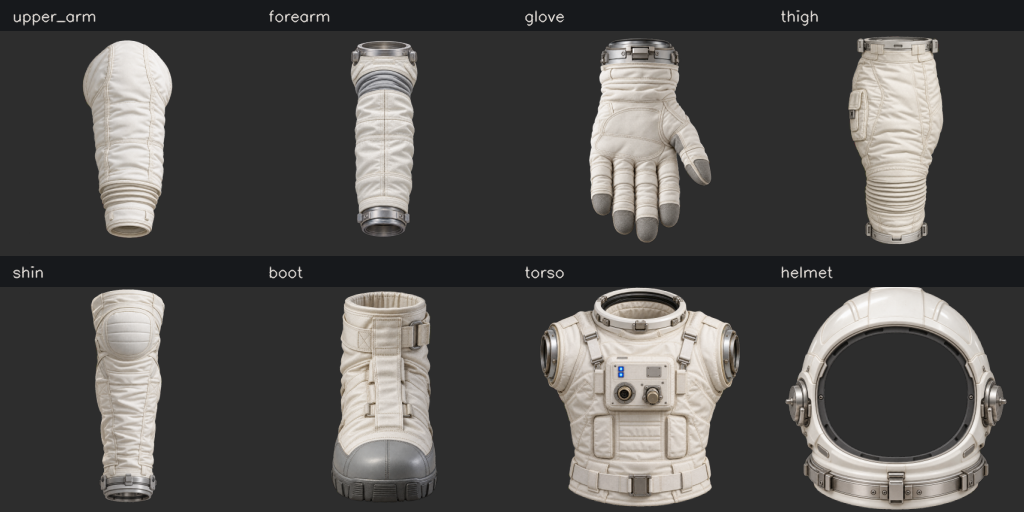
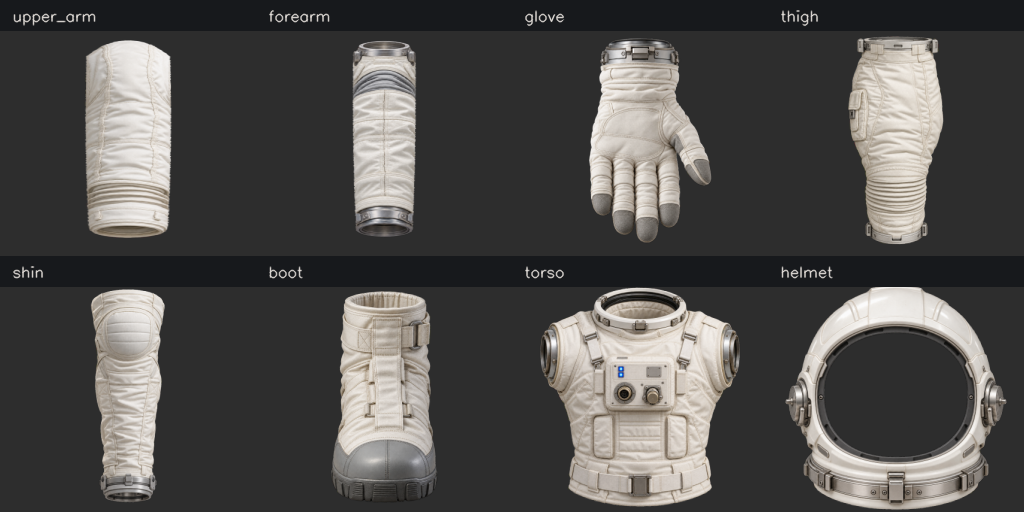
Join wider EVA sleeves consistently through arm movement

diff --git a/fruit-ninja-cv/suit_rig.py b/fruit-ninja-cv/suit_rig.py
@@ -31,6 +31,39 @@ class Sprite:
         return cls(image, rgba, cv2.boundingRect(image[:, :, 3]))
 
 
+def _fit_sleeve_artwork(image, anchors, proximal, distal):
+    """Match actual fabric cross-sections, rather than transparent canvas widths.
+
+    The upper-arm artwork has a very narrow cuff. A single affine scale cannot
+    join it to the much wider forearm ring. Refit rows once at asset load, keeping
+    the original texture, alpha edges and a mild taper along the sleeve.
+    """
+    h,w=image.shape[:2]
+    bounds=cv2.boundingRect((image[:,:,3]>32).astype(np.uint8))
+    yy,xx=np.mgrid[:h,:w].astype(np.float32)
+    source_x=xx.copy()
+    for y in range(h):
+        columns=np.flatnonzero(image[y,:,3]>32)
+        if len(columns)<2:
+            continue
+        t=float(np.clip((y/h-anchors[0][1])/(anchors[1][1]-anchors[0][1]),0,1))
+        target=bounds[2]*(proximal*(1-t)+distal*t+.035*np.sin(np.pi*t))
+        # Keep the authored rounded shoulder and cuff ends outside the bone
+        # anchors; expanding those tiny end rows would create square shoulders.
+        anchor_y=round(np.clip(y,anchors[0][1]*h,anchors[1][1]*h))
+        reference=np.flatnonzero(image[anchor_y,:,3]>32)
+        if len(reference)>1 and (y<anchors[0][1]*h or y>anchors[1][1]*h):
+            target*=min(1.,len(columns)/len(reference))
+        scale=min(3.5,target/(columns[-1]-columns[0]+1))
+        source_x[y]=(xx[y]-w*.5)/scale+(columns[0]+columns[-1])*.5
+    # Premultiplied resampling keeps the refitted alpha border free of dark edges.
+    premult=Sprite.prepare(image).premultiplied
+    fitted=cv2.remap(premult,source_x,yy,cv2.INTER_LINEAR,borderMode=cv2.BORDER_CONSTANT)
+    alpha=fitted[:,:,3:4]
+    color=np.divide(fitted[:,:,:3],alpha,out=np.zeros_like(fitted[:,:,:3]),where=alpha>1e-6)
+    return np.clip(np.concatenate((color,alpha*255),axis=2),0,255).astype(np.uint8)
+
+
 @lru_cache(maxsize=1)
 def load_assets():
     """One bounded decoded set (8 × at most 384²), no growing scale cache."""
@@ -43,11 +76,16 @@ def load_assets():
         factor = min(1., 384 / max(image.shape[:2]))
         if factor < 1:
             image = cv2.resize(image, None, fx=factor, fy=factor, interpolation=cv2.INTER_AREA)
+        if name in ('upper_arm','forearm'):
+            profile=(.94,.90) if name=='upper_arm' else (.94,.86)
+            image=_fit_sleeve_artwork(image,meta[name]['anchors'],*profile)
         assets[name] = Sprite.prepare(image)
         if 'width' in meta[name]:
             # Generated artwork need not obey the requested margin exactly.
             # Fit actual opaque garment width, not transparent canvas padding.
-            meta[name]['width']=assets[name].bounds[2]/image.shape[1]
+            fit_bounds=(cv2.boundingRect((image[:,:,3]>32).astype(np.uint8))
+                        if name in ('upper_arm','forearm') else assets[name].bounds)
+            meta[name]['width']=fit_bounds[2]/image.shape[1]
         if name=='helmet':
             transparent=(image[:,:,3]<20).astype(np.uint8)
             _,labels=cv2.connectedComponents(transparent)
@@ -240,9 +278,14 @@ class SuitRenderer:
     def _limb(self, asset, label, a, b, width, pose, mask=None, torso=None):
         endpoints=pose.segment(a,b)
         if endpoints is None or np.linalg.norm(endpoints[1]-endpoints[0])<3:return None
-        # Overlap cuffs at each joint; do not expose transparent asset margins.
+        # Sleeve overlap follows garment width, not projected bone length: an
+        # elbow pointing at the camera still needs a full-size padded joint.
         delta=endpoints[1]-endpoints[0]
-        fitted=np.array((endpoints[0]-delta*.10,endpoints[1]+delta*.10))
+        if asset in ('upper_arm','forearm'):
+            extension=delta/np.linalg.norm(delta)*width*.22
+        else:
+            extension=delta*.10
+        fitted=np.array((endpoints[0]-extension,endpoints[1]+extension))
         part=self._part(asset,label,fitted,width)
         part['fit_endpoints']=fitted
         part['endpoints']=endpoints
@@ -412,7 +455,7 @@ class SuitRenderer:
                                  ('r',(12,14,16,20,24,26,28,32))]:
                 sh,el,wr,fi,hip,knee,ankle,toe=indices
                 for asset,a,b,factor,layer in [('thigh',hip,knee,.53,0),('shin',knee,ankle,.48,1),
-                                              ('upper_arm',sh,el,.46,20),('forearm',el,wr,.44,40)]:
+                                              ('upper_arm',sh,el,.56,8),('forearm',el,wr,.54,40)]:
                     part=self._limb(asset,asset+'_'+side,a,b,width*factor,pose,player,quad)
                     if part is not None:
                         # Far arms go behind the torso; near forearms cross in front.
@@ -433,7 +476,7 @@ class SuitRenderer:
                     wrist=hand[0].copy()
                     hand=np.array((wrist-direction*width*.08,
                                    wrist+direction*max(width*.40,min(np.linalg.norm(hand[1]-wrist),width*.62))))
-                    commands.append((45,self._part('glove','glove_'+side,hand,width*.46)))
+                    commands.append((45,self._part('glove','glove_'+side,hand,width*.55)))
                 foot=pose.segment(ankle,toe)
                 if foot is not None:
                     if np.linalg.norm(foot[1]-foot[0])<width*.17:
@@ -445,27 +488,37 @@ class SuitRenderer:
             # getPerspectiveTransform wants perimeter order, not two rows.
             matrix=cv2.getPerspectiveTransform(source_quad[[0,1,3,2]].astype(np.float32),quad[[0,1,3,2]])
             commands.append((10,dict(name='torso',asset='torso',matrix=matrix,endpoints=quad)))
+        arm_clip=clip
         if width>=8:
             margin=max(2,min(18,round(width*.055)))
-            kernel=cv2.getStructuringElement(cv2.MORPH_ELLIPSE,(margin*2+1,margin*2+1))
-            padded=cv2.dilate(player,kernel)
+            # One linear-time distance map for both padding radii, rather than
+            # a large morphology kernel per sleeve on every moving frame.
+            outside_distance=cv2.distanceTransform((player==0).astype(np.uint8),cv2.DIST_L2,3)
+            padded=outside_distance<=margin
             # Flood exterior background from an explicit padded image border.
             exterior=cv2.copyMakeBorder((player==0).astype(np.uint8),1,1,1,1,cv2.BORDER_CONSTANT,value=1)
             cv2.floodFill(exterior,None,(0,0),2)
             allowed=(player>0)|((exterior[1:-1,1:-1]==2)&(padded>0))
             clip=(allowed.astype(np.uint8)*255)
+            # Only measured sleeve sprites get extra room for EVA padding.
+            # Keep enclosed background holes free and never retain old arm masks.
+            arm_margin=max(2,min(48,round(width*.16)))
+            arm_padded=outside_distance<=arm_margin
+            arm_clip=(((player>0)|((exterior[1:-1,1:-1]==2)&(arm_padded>0))).astype(np.uint8)*255)
         # Keep upper-arm/torso below the helmet, wrists/gloves can occlude it.
         for layer,part in sorted(commands,key=lambda item:item[0]):
             if layer>=40:
                 continue
-            alpha_over(frame,self.assets[part['asset']],part['matrix'],clip)
+            alpha_over(frame,self.assets[part['asset']],part['matrix'],
+                       arm_clip if part['asset'] in ('upper_arm','forearm','glove') else clip)
             self.last_parts.append(part)
         if head is not None:
             self._helmet(frame,original,head,now,player)
         for layer,part in sorted(commands,key=lambda item:item[0]):
             if layer<40:
                 continue
-            alpha_over(frame,self.assets[part['asset']],part['matrix'],clip)
+            alpha_over(frame,self.assets[part['asset']],part['matrix'],
+                       arm_clip if part['asset'] in ('upper_arm','forearm','glove') else clip)
             self.last_parts.append(part)
         if keep is not None:
             cv2.copyTo(original,keep,frame)  # includes pen excluded by the person model

diff --git a/fruit-ninja-cv/tests/test_suit_rig.py b/fruit-ninja-cv/tests/test_suit_rig.py
@@ -207,3 +207,53 @@ def test_short_finger_projection_does_not_create_a_tiny_glove():
     glove=next(p for p in r.last_parts if p['name']=='glove_l')
     forearm=next(p for p in r.last_parts if p['name']=='forearm_l')
     assert np.linalg.norm(glove['endpoints'][1]-glove['endpoints'][0])>=forearm['width']*.8
+
+
+def test_sleeve_cuffs_have_matching_visible_widths_not_only_matching_canvases():
+    r=SuitRenderer()
+    widths=[]
+    for name,endpoint,factor in [('upper_arm',1,.56),('forearm',0,.54)]:
+        sprite=r.assets[name];meta=r.meta[name]
+        row=round(meta['anchors'][endpoint][1]*sprite.image.shape[0])
+        columns=np.flatnonzero(sprite.image[row,:,3]>128)
+        widths.append((columns[-1]-columns[0]+1)/(meta['width']*sprite.image.shape[1])*factor)
+    assert min(widths)/max(widths)>.9
+    assert min(widths)>.45
+
+
+def test_short_projected_arm_keeps_wide_sleeve_and_joint_overlap():
+    pose=sample_pose();pose.points[13,:2]=(57,70);pose.points[15,:2]=(90,68)
+    r=SuitRenderer();raw=np.full((200,160,3),80,np.uint8)
+    r.render(raw.copy(),raw,np.full((200,160),255,np.uint8),pose=pose,now=0)
+    parts={p['name']:p for p in r.last_parts}
+    arm=parts['upper_arm_l'];forearm=parts['forearm_l']
+    assert arm['width']>=r._body_size*.55
+    assert forearm['width']>=r._body_size*.53
+    assert np.linalg.norm(arm['fit_endpoints'][1]-pose.points[13,:2])>=arm['width']*.18
+    assert np.linalg.norm(forearm['fit_endpoints'][0]-pose.points[13,:2])>=forearm['width']*.18
+
+
+def test_sleeve_follows_fast_arm_motion_without_position_smoothing_or_ghosts():
+    from tools.preview_suit import scene
+    r=SuitRenderer()
+    for tick,kind in enumerate(('down','side','cross','up','down')):
+        raw,mask,pose,face,keep=scene(kind)
+        out=r.render(raw.copy(),raw,mask,pose,face,keep,now=tick*.033)
+        parts={p['name']:p for p in r.last_parts}
+        assert np.allclose(parts['forearm_l']['endpoints'],pose.points[[13,15],:2])
+        assert np.array_equal(out[keep>0],raw[keep>0])
+        assert parts['upper_arm_l']['width']==parts['upper_arm_r']['width']
+    # Losing one wrist hides its forearm immediately; do not retain the last pose.
+    pose.confidence[15]=0
+    r.render(raw.copy(),raw,mask,pose,face,keep,now=.2)
+    assert 'forearm_l' not in {p['name'] for p in r.last_parts}
+
+
+def test_sleeve_padding_is_not_cut_back_to_the_narrow_real_arm():
+    from tools.preview_suit import scene
+    raw,mask,pose,face,keep=scene('side')
+    out=SuitRenderer().render(raw.copy(),raw,mask,pose,face,keep,now=0)
+    # Mid upper arm: outside the real arm and old 10px allowance, inside EVA sleeve.
+    assert mask[280,330]==0
+    assert np.linalg.norm(out[280,330].astype(float)-raw[280,330])>80
+    assert np.array_equal(out[310,330],raw[310,330])

diff --git a/docs/astronaut-suit.md b/docs/astronaut-suit.md
@@ -74,7 +74,7 @@ Körperpunkte sind dann deterministische Testeingaben. `--models` nutzt zusätzl
 die echten lokalen Netze auf dem vorhandenen gemeinfreien NASA-Porträt.
 Es werden keine privaten Team- oder Kamerafotos benötigt.
 
-**Tests: 288 bestanden, 0 fehlgeschlagen, 0 Fehler, 0 übersprungen.**
+**Tests: 292 bestanden, 0 fehlgeschlagen, 0 Fehler, 0 übersprungen.**
 
 Gezielte Regressionen decken Gesichtspixel im Visier, Originalpuffer,
 Hintergrund im Helminnenraum, Alpha-Ränder, Rotation/Anker, geclipptes Rendering,
@@ -115,15 +115,15 @@ keine gemessene Kamera-zu-Bildschirm-Latenz.** Keine garantierte Live-Framerate.
 
 | Schritt | Eingabe | Median ms | P95 ms |
 | --- | --- | ---: | ---: |
-| Artikulierter Anzug inkl. Eingabekopie | synthetisch 960×720 | 30.47 | 33.61 |
-| Stifttracking | synthetisch 960×720 | 2.16 | 2.57 |
-| Pose inkl. periodischer Initialisierung | Porträt 480×600 / 256px Netz | 16.39 | 41.60 |
-| YOLO-Inferenz+Decode | Porträt 480×600 / 320px Netz | 28.50 | 31.52 |
-| YuNet-Detektion | Porträt 480×600 / 320px Netz | 6.34 | 7.35 |
-| Alle Modelle und Rendering bei jedem Aufruf | Porträt 480×600 | 76.21 | 98.00 |
-| Getaktete Pipeline (Marker, N=3 YOLO, Pose/Flow, Face, Rendering) | Porträt 480×600 | 40.85 | 94.75 |
+| Artikulierter Anzug inkl. Eingabekopie | synthetisch 960×720 | 38.48 | 46.38 |
+| Stifttracking | synthetisch 960×720 | 2.60 | 3.01 |
+| Pose inkl. periodischer Initialisierung | Porträt 480×600 / 256px Netz | 13.96 | 34.19 |
+| YOLO-Inferenz+Decode | Porträt 480×600 / 320px Netz | 28.53 | 31.37 |
+| YuNet-Detektion | Porträt 480×600 / 320px Netz | 6.78 | 7.56 |
+| Alle Modelle und Rendering bei jedem Aufruf | Porträt 480×600 | 84.40 | 106.37 |
+| Getaktete Pipeline (Marker, N=3 YOLO, Pose/Flow, Face, Rendering) | Porträt 480×600 | 42.97 | 99.24 |
 
-Der getaktete Durchlauf benötigte im Mittel **56.75 ms**, entsprechend etwa **17.6 verarbeiteten Testbildern/s** ohne Capture/Anzeige. Das ist kein 720p-Live-FPS-Wert; Komponenten mit verschiedenen Eingabegrößen
+Der getaktete Durchlauf benötigte im Mittel **57.60 ms**, entsprechend etwa **17.4 verarbeiteten Testbildern/s** ohne Capture/Anzeige. Das ist kein 720p-Live-FPS-Wert; Komponenten mit verschiedenen Eingabegrößen
 dürfen nicht einfach addiert werden. Die zusätzliche Figur kostet Rechenzeit;
 30 oder 60 Live-FPS werden auf dieser Grundlage ausdrücklich nicht zugesichert.
 Ausgabeauflösung und Inferenzintervalle am Demogerät anhand Bildqualität UND
@@ -177,3 +177,32 @@ Das ist eine Passformschätzung in Bildkoordinaten, keine Messung des tatsächli
 Körperumfangs in Zentimetern. Größere Teile kosten zusätzliche Renderzeit; aktuelle
 Messwerte stehen oben. Die Posen-Vorschauen wurden erneut erzeugt und geprüft.
 Ein neuer Live-Webcam-Test wurde für diese Korrektur nicht durchgeführt.
+
+
+## Bewegliche, zusammenhängende Ärmel (12.11.2026)
+
+Die tatsächlich sichtbaren Querschnitte der Oberarm- und Unterarmgrafik werden
+beim einmaligen Laden auf ein gemeinsames, leicht verjüngtes Ärmelprofil gebracht.
+Vorher war der Oberarmbund trotz ähnlicher Gesamtbreite erheblich schmaler als
+der anschließende Unterarmring. Die vorhandenen Texturen und Alpha-Kanten bleiben
+erhalten; Helmgrafik und Helm-Rendering werden nicht verändert.
+
+Oberarm/Unterarm sind breiter (56/54 Prozent der gemeinsamen Körpergrößenbasis),
+die Handschuhe werden dazu passend auf 55 Prozent skaliert. Die Schulteranschlüsse
+liegen unter dem Brustteil. An Armsegmentenden beträgt die Überlappung 22 Prozent
+der Ärmelbreite, unabhängig von der perspektivisch verkürzten Knochenlänge.
+Die breiteren Ärmel erhalten bis zu 16 Prozent der Größenbasis / maximal 48 Pixel
+Maskenzugabe, ausschließlich außerhalb geschlossener Zwischenräume. Ein gemeinsames
+Distanzfeld ersetzt dafür große Morphologiekernel. Die Positionen folgen den
+aktuellen Posepunkten ohne zusätzliche Glättung; es gibt keine gespeicherte alte
+Armmaske. Fehlende Gelenke blenden betroffene Teile aus. Der Stift bleibt zuletzt
+aus dem Originalbild wiederhergestellt.
+
+Vier zusätzliche Regressionen prüfen passende sichtbare Bundbreiten, kurze
+projizierte Armsegmente, schnelle Wechsel unten/seitlich/verschränkt/oben und
+Trackingverlust sowie die sichtbare Polsterbreite. Insgesamt 292 Tests bestanden.
+Die reproduzierbaren Vorschaubilder wurden erneuert und visuell geprüft.
+Render-Median bei 960×720: 38,5 ms; getaktete Testpipeline am öffentlichen
+Portrait: 57,6 ms Mittel (ca. 17,4 verarbeitete Testbilder/s), ohne Kamera/Anzeige.
+Das ist keine Live-FPS-Messung. Schnelle reale Armbewegungen, Drehungen zur Kamera
+und wechselnde Beleuchtung benötigen weiterhin eine Live-Abnahme.

diff --git a/Architektur.md b/Architektur.md
@@ -421,3 +421,32 @@ Das ist eine Passformschätzung in Bildkoordinaten, keine Messung des tatsächli
 Körperumfangs in Zentimetern. Größere Teile kosten zusätzliche Renderzeit; aktuelle
 Messwerte stehen oben. Die Posen-Vorschauen wurden erneut erzeugt und geprüft.
 Ein neuer Live-Webcam-Test wurde für diese Korrektur nicht durchgeführt.
+
+
+## Bewegliche, zusammenhängende Ärmel (12.11.2026)
+
+Die tatsächlich sichtbaren Querschnitte der Oberarm- und Unterarmgrafik werden
+beim einmaligen Laden auf ein gemeinsames, leicht verjüngtes Ärmelprofil gebracht.
+Vorher war der Oberarmbund trotz ähnlicher Gesamtbreite erheblich schmaler als
+der anschließende Unterarmring. Die vorhandenen Texturen und Alpha-Kanten bleiben
+erhalten; Helmgrafik und Helm-Rendering werden nicht verändert.
+
+Oberarm/Unterarm sind breiter (56/54 Prozent der gemeinsamen Körpergrößenbasis),
+die Handschuhe werden dazu passend auf 55 Prozent skaliert. Die Schulteranschlüsse
+liegen unter dem Brustteil. An Armsegmentenden beträgt die Überlappung 22 Prozent
+der Ärmelbreite, unabhängig von der perspektivisch verkürzten Knochenlänge.
+Die breiteren Ärmel erhalten bis zu 16 Prozent der Größenbasis / maximal 48 Pixel
+Maskenzugabe, ausschließlich außerhalb geschlossener Zwischenräume. Ein gemeinsames
+Distanzfeld ersetzt dafür große Morphologiekernel. Die Positionen folgen den
+aktuellen Posepunkten ohne zusätzliche Glättung; es gibt keine gespeicherte alte
+Armmaske. Fehlende Gelenke blenden betroffene Teile aus. Der Stift bleibt zuletzt
+aus dem Originalbild wiederhergestellt.
+
+Vier zusätzliche Regressionen prüfen passende sichtbare Bundbreiten, kurze
+projizierte Armsegmente, schnelle Wechsel unten/seitlich/verschränkt/oben und
+Trackingverlust sowie die sichtbare Polsterbreite. Insgesamt 292 Tests bestanden.
+Die reproduzierbaren Vorschaubilder wurden erneuert und visuell geprüft.
+Render-Median bei 960×720: 38,5 ms; getaktete Testpipeline am öffentlichen
+Portrait: 57,6 ms Mittel (ca. 17,4 verarbeitete Testbilder/s), ohne Kamera/Anzeige.
+Das ist keine Live-FPS-Messung. Schnelle reale Armbewegungen, Drehungen zur Kamera
+und wechselnde Beleuchtung benötigen weiterhin eine Live-Abnahme.
